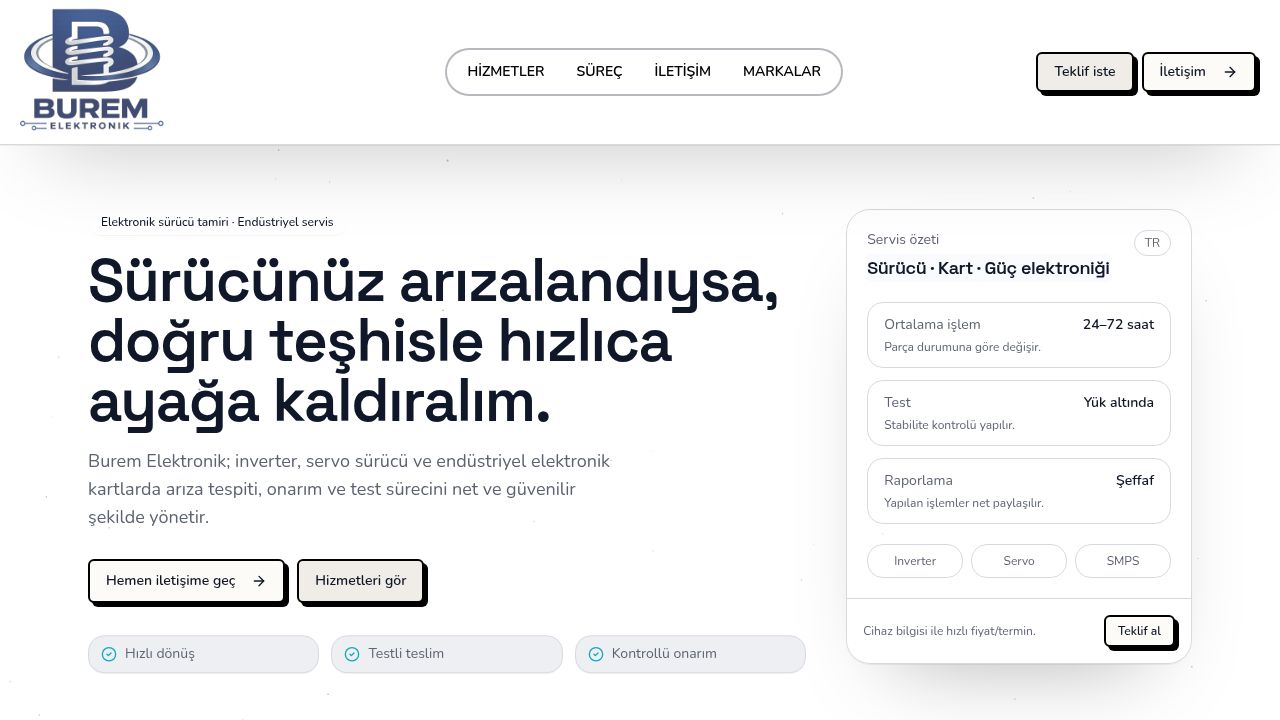
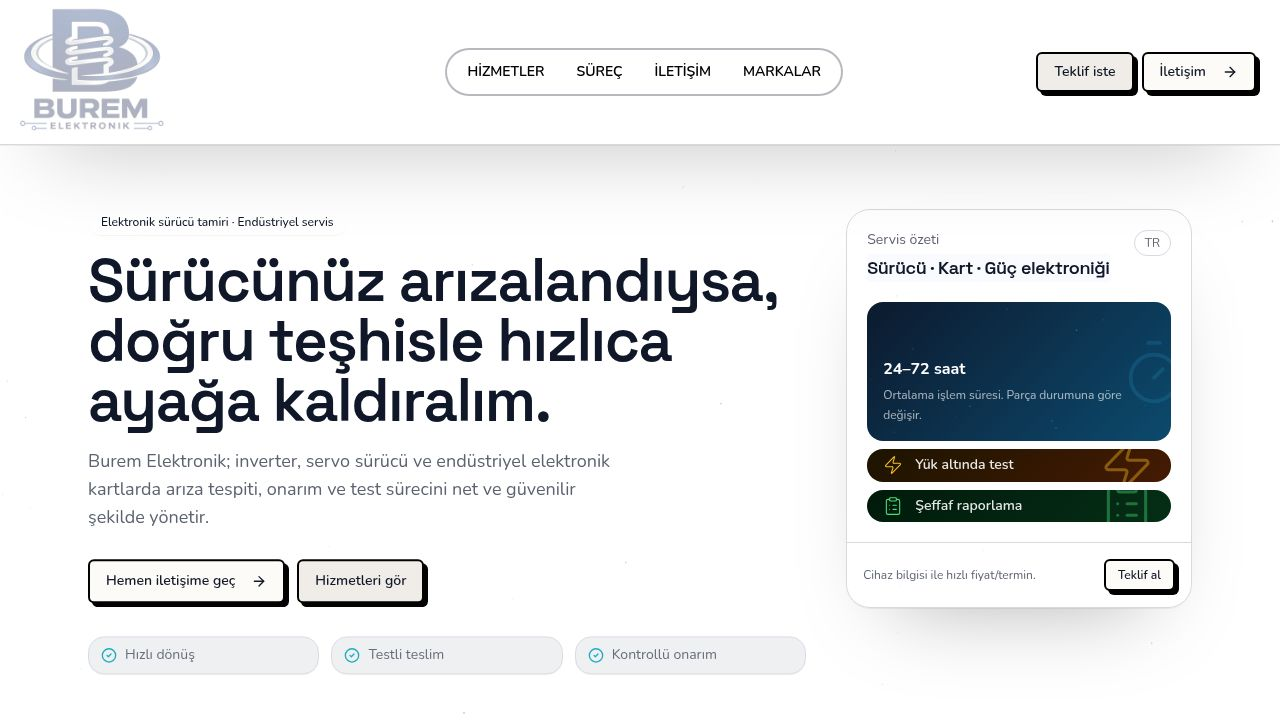
Add a vertical accordion style to the service summary section
Introduce a `VerticalImageAccordion` component and apply it to the "Servis özeti" section in `home.tsx`, replacing the previous KPI rows and chip grid. Update `interactive-image-accordion.tsx` to support vertical direction.

Replit-Commit-Author: Agent
Replit-Commit-Session-Id: 371f6235-2fde-4516-bc43-82dd514ff68f
Replit-Commit-Checkpoint-Type: full_checkpoint
Replit-Commit-Event-Id: 4522cdeb-3426-41b8-9b5b-2f688cb569ca
Replit-Commit-Screenshot-Url: https://storage.googleapis.com/screenshot-production-us-central1/220fef12-6025-4ca4-92d5-d8870d5c7179/371f6235-2fde-4516-bc43-82dd514ff68f/p9uv7Kw
Replit-Helium-Checkpoint-Created: true

diff --git a/client/src/components/ui/interactive-image-accordion.tsx b/client/src/components/ui/interactive-image-accordion.tsx
@@ -10,7 +10,8 @@ export interface AccordionItem {
   gradient: string;
 }
 
-function AccordionPanel({
+/* ─── Yatay panel ─── */
+function HorizontalPanel({
   item,
   isActive,
   onMouseEnter,
@@ -20,7 +21,6 @@ function AccordionPanel({
   onMouseEnter: () => void;
 }) {
   const uid = useId();
-
   return (
     <div
       className={`
@@ -31,12 +31,8 @@ function AccordionPanel({
       style={{ background: item.gradient }}
       onMouseEnter={onMouseEnter}
     >
-      {/* Sparkle layer — always rendered, opacity controlled */}
-      <div
-        className={`absolute inset-0 transition-opacity duration-700 ${
-          isActive ? "opacity-100" : "opacity-30"
-        }`}
-      >
+      {/* Sparkles */}
+      <div className={`absolute inset-0 transition-opacity duration-700 ${isActive ? "opacity-100" : "opacity-30"}`}>
         <SparklesCore
           id={uid}
           background="transparent"
@@ -49,7 +45,7 @@ function AccordionPanel({
         />
       </div>
 
-      {/* Large icon — fades to background when active */}
+      {/* İkon (arka planda büyür) */}
       <div
         className={`absolute inset-0 flex items-center justify-center transition-all duration-500 ${
           isActive ? "opacity-20 scale-150" : "opacity-70 scale-100"
@@ -59,19 +55,17 @@ function AccordionPanel({
         <div className="w-24 h-24 [&>svg]:w-full [&>svg]:h-full">{item.icon}</div>
       </div>
 
-      {/* Active: title + description at bottom */}
+      {/* Aktif: başlık + açıklama */}
       <div
         className={`absolute bottom-0 left-0 right-0 p-7 transition-all duration-500 ${
           isActive ? "opacity-100 translate-y-0" : "opacity-0 translate-y-6 pointer-events-none"
         }`}
       >
-        <p className="text-white text-2xl font-bold leading-tight tracking-tight">
-          {item.title}
-        </p>
+        <p className="text-white text-2xl font-bold leading-tight tracking-tight">{item.title}</p>
         <p className="text-white/65 text-sm mt-3 leading-relaxed">{item.description}</p>
       </div>
 
-      {/* Inactive: vertical title */}
+      {/* Pasif: dikey başlık */}
       <div
         className={`absolute inset-0 flex items-end justify-center pb-6 transition-opacity duration-300 ${
           isActive ? "opacity-0" : "opacity-100"
@@ -88,19 +82,109 @@ function AccordionPanel({
   );
 }
 
+/* ─── Dikey panel ─── */
+function VerticalPanel({
+  item,
+  isActive,
+  onMouseEnter,
+}: {
+  item: AccordionItem;
+  isActive: boolean;
+  onMouseEnter: () => void;
+}) {
+  const uid = useId();
+  return (
+    <div
+      className={`
+        relative w-full rounded-2xl overflow-hidden cursor-pointer flex-shrink-0
+        transition-all duration-600 ease-in-out
+        ${isActive ? "flex-[3]" : "flex-[0.7]"}
+      `}
+      style={{ background: item.gradient }}
+      onMouseEnter={onMouseEnter}
+    >
+      {/* Sparkles */}
+      <div className={`absolute inset-0 transition-opacity duration-700 ${isActive ? "opacity-100" : "opacity-20"}`}>
+        <SparklesCore
+          id={uid}
+          background="transparent"
+          minSize={0.4}
+          maxSize={isActive ? 1.2 : 0.6}
+          particleDensity={isActive ? 70 : 20}
+          particleColor={item.particleColor}
+          speed={isActive ? 1.0 : 0.3}
+          className="w-full h-full"
+        />
+      </div>
+
+      {/* İkon arka planda */}
+      <div
+        className={`absolute inset-0 flex items-center justify-end pr-4 transition-all duration-500 ${
+          isActive ? "opacity-15 scale-125" : "opacity-40 scale-100"
+        }`}
+        style={{ color: item.particleColor }}
+      >
+        <div className="w-14 h-14 [&>svg]:w-full [&>svg]:h-full">{item.icon}</div>
+      </div>
+
+      {/* Pasif: yatay ikon + başlık */}
+      <div
+        className={`absolute inset-0 flex items-center gap-3 px-4 transition-all duration-300 ${
+          isActive ? "opacity-0" : "opacity-100"
+        }`}
+      >
+        <div className="w-5 h-5 shrink-0 [&>svg]:w-full [&>svg]:h-full" style={{ color: item.particleColor }}>
+          {item.icon}
+        </div>
+        <span className="text-white/90 text-sm font-semibold truncate">{item.title}</span>
+      </div>
+
+      {/* Aktif: başlık + açıklama */}
+      <div
+        className={`absolute inset-0 flex flex-col justify-end p-4 transition-all duration-500 ${
+          isActive ? "opacity-100 translate-y-0" : "opacity-0 translate-y-4 pointer-events-none"
+        }`}
+      >
+        <p className="text-white text-base font-bold leading-snug">{item.title}</p>
+        <p className="text-white/65 text-xs mt-1.5 leading-relaxed">{item.description}</p>
+      </div>
+    </div>
+  );
+}
+
+/* ─── Ana bileşen ─── */
 export function ImageAccordion({
   items,
   defaultActive = 0,
+  direction = "horizontal",
+  className = "",
 }: {
   items: AccordionItem[];
   defaultActive?: number;
+  direction?: "horizontal" | "vertical";
+  className?: string;
 }) {
   const [activeIndex, setActiveIndex] = useState(defaultActive);
 
+  if (direction === "vertical") {
+    return (
+      <div className={`flex flex-col gap-2 w-full h-full ${className}`}>
+        {items.map((item, index) => (
+          <VerticalPanel
+            key={item.id}
+            item={item}
+            isActive={index === activeIndex}
+            onMouseEnter={() => setActiveIndex(index)}
+          />
+        ))}
+      </div>
+    );
+  }
+
   return (
-    <div className="flex flex-row items-stretch gap-3 w-full h-[420px]">
+    <div className={`flex flex-row items-stretch gap-3 w-full h-[420px] ${className}`}>
       {items.map((item, index) => (
-        <AccordionPanel
+        <HorizontalPanel
           key={item.id}
           item={item}
           isActive={index === activeIndex}

diff --git a/client/src/pages/home.tsx b/client/src/pages/home.tsx
@@ -1107,57 +1107,37 @@ export default function HomePage() {
                     </span>
                   </div>
 
-                  <div className="mt-5 space-y-3">
-                    <div
-                      className="rounded-2xl border bg-background/60 px-4 py-3"
-                      data-testid="card-kpi-1"
-                    >
-                      <div className="flex items-center justify-between">
-                        <span className="text-sm text-muted-foreground">Ortalama işlem</span>
-                        <span className="text-sm font-semibold">24–72 saat</span>
-                      </div>
-                      <div className="mt-1 text-xs text-muted-foreground">
-                        Parça durumuna göre değişir.
-                      </div>
-                    </div>
-
-                    <div
-                      className="rounded-2xl border bg-background/60 px-4 py-3"
-                      data-testid="card-kpi-2"
-                    >
-                      <div className="flex items-center justify-between">
-                        <span className="text-sm text-muted-foreground">Test</span>
-                        <span className="text-sm font-semibold">Yük altında</span>
-                      </div>
-                      <div className="mt-1 text-xs text-muted-foreground">
-                        Stabilite kontrolü yapılır.
-                      </div>
-                    </div>
-
-                    <div
-                      className="rounded-2xl border bg-background/60 px-4 py-3"
-                      data-testid="card-kpi-3"
-                    >
-                      <div className="flex items-center justify-between">
-                        <span className="text-sm text-muted-foreground">Raporlama</span>
-                        <span className="text-sm font-semibold">Şeffaf</span>
-                      </div>
-                      <div className="mt-1 text-xs text-muted-foreground">
-                        Yapılan işlemler net paylaşılır.
-                      </div>
-                    </div>
-                  </div>
-
-                  <div className="mt-5 grid grid-cols-3 gap-2">
-                    {["Inverter", "Servo", "SMPS"].map((k) => (
-                      <div
-                        key={k}
-                        className="rounded-2xl border bg-background/60 px-3 py-2 text-center text-xs text-muted-foreground"
-                        data-testid={`chip-${k}`}
-                      >
-                        {k}
-                      </div>
-                    ))}
+                  <div className="mt-5 h-[220px]" data-testid="card-kpi-accordion">
+                    <ImageAccordion
+                      direction="vertical"
+                      defaultActive={0}
+                      items={[
+                        {
+                          id: 1,
+                          title: "24–72 saat",
+                          description: "Ortalama işlem süresi. Parça durumuna göre değişir.",
+                          icon: <Timer strokeWidth={1.3} />,
+                          particleColor: "#38bdf8",
+                          gradient: "linear-gradient(135deg, #0c1a2e 0%, #0c4a6e 100%)",
+                        },
+                        {
+                          id: 2,
+                          title: "Yük altında test",
+                          description: "Stabilite ve ısı kontrolü teslimden önce yapılır.",
+                          icon: <Zap strokeWidth={1.3} />,
+                          particleColor: "#fbbf24",
+                          gradient: "linear-gradient(135deg, #1c1400 0%, #451a03 100%)",
+                        },
+                        {
+                          id: 3,
+                          title: "Şeffaf raporlama",
+                          description: "Yapılan tüm işlemler müşteriye net biçimde aktarılır.",
+                          icon: <ClipboardList strokeWidth={1.3} />,
+                          particleColor: "#4ade80",
+                          gradient: "linear-gradient(135deg, #001a0a 0%, #052e16 100%)",
+                        },
+                      ]}
+                    />
                   </div>
                 </div>
 
